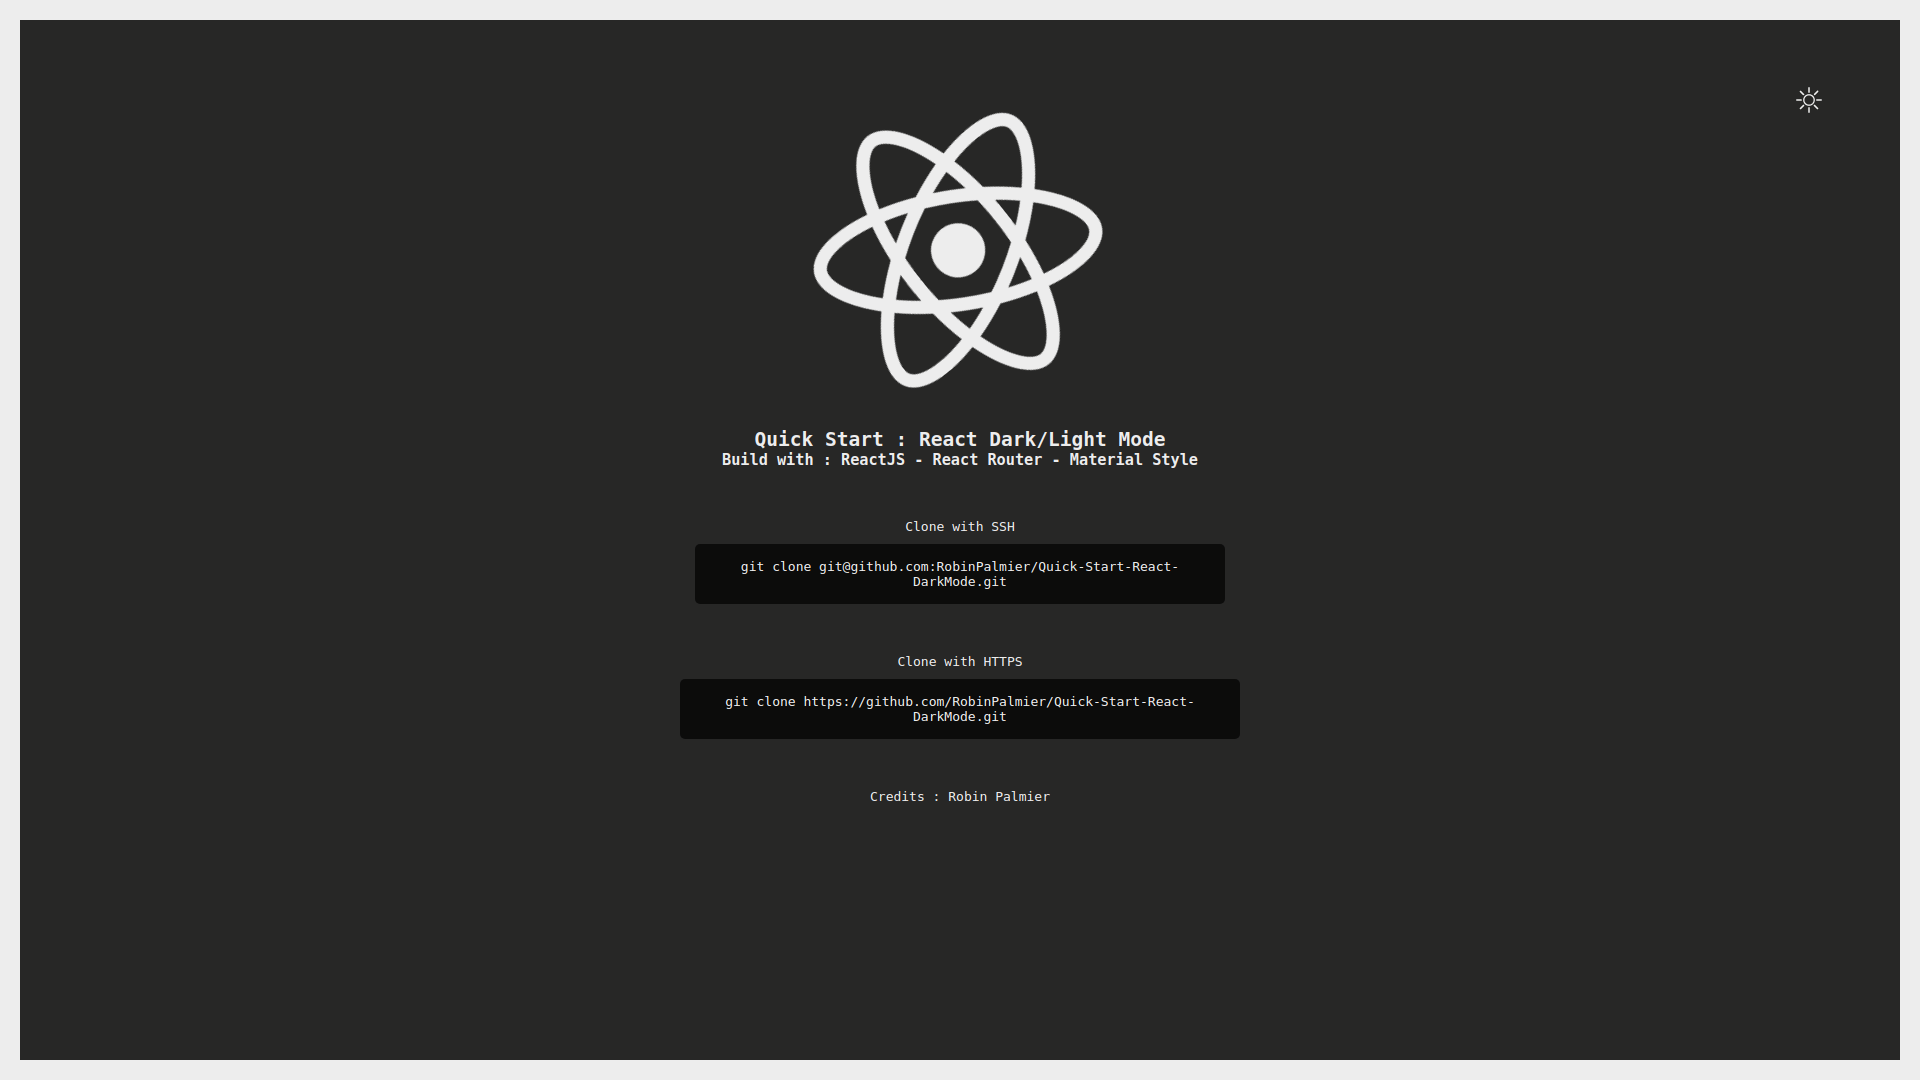
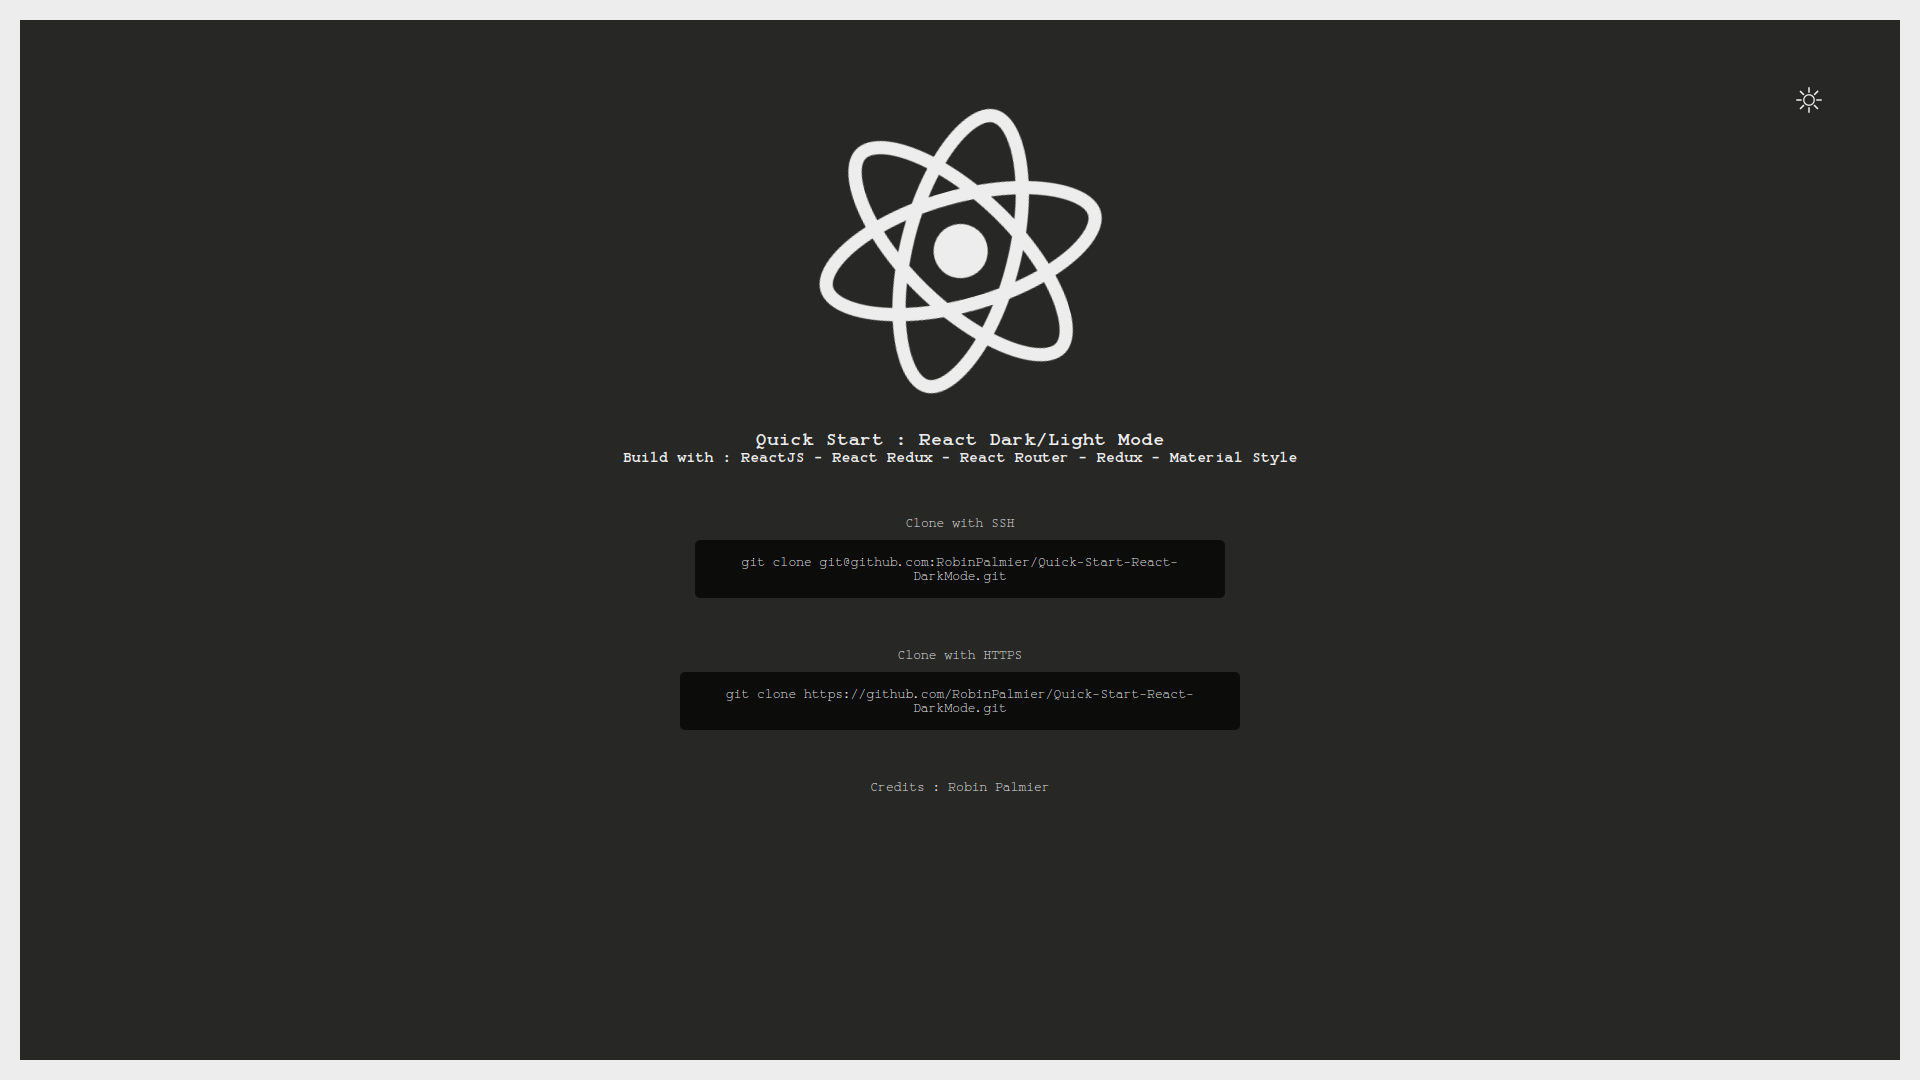
v1.0.0

Changed region(s): [[0.3438, 0.4583, 0.6562, 0.7639], [0.4062, 0.0917, 0.5938, 0.3667], [0.3125, 0.3972, 0.6562, 0.4278]]

diff --git a/src/components/Header/Theme/index.jsx b/src/components/Header/Theme/index.jsx
@@ -1,26 +1,39 @@
-import React, { useContext } from 'react';
-import Context from '../../../store/context';
-import useStyles from './useStyles';
+import React from 'react';
+import { bindActionCreators } from 'redux';
+import { useSelector, useDispatch, connect } from 'react-redux';
+import { defineTheme } from '../../../Redux/actions';
+import actions from '../../../Redux/actionsLabels';
 import Moon from '../../../assets/img/moon.svg';
 import Sun from '../../../assets/img/sun.svg';
+import useStyles from './useStyles';
 
 const ThemeChoice = () => {
-    const { state, dispatch } = useContext(Context);
-    const classes = useStyles();
+    const theme = useSelector(state => state.theme);
+    const classes = useStyles(theme);
+    const dispatch = useDispatch();
 
-    const handleChangeTheme = () => {
-        dispatch({type: "TOGGLE_DARK_MODE"});
-    }
+    const handleChangeTheme = () => dispatch({type: actions.TOGGLE_DARK_MODE});
 
     return (
-            <img 
-                className={classes.iconeThemeChange}
-                src={state.isDark ? Sun : Moon}
-                alt="darkmode-toggle-img"
-                onClick={handleChangeTheme}
-            />
+        <img 
+            className={classes.iconeThemeChange}
+            src={theme.isDark ? Sun : Moon}
+            alt="darkmode-toggle-img"
+            onClick={handleChangeTheme}
+        />
     )
 }
 
+const mapStateTorops = state => ({
+        utheme: state.theme
+})
 
-export default ThemeChoice;
+const mapDispatchToProps = dispatch => ({
+    theme: bindActionCreators(defineTheme, dispatch),
+})
+
+
+export default connect(
+    mapStateTorops,
+    mapDispatchToProps,
+)(ThemeChoice);

diff --git a/src/index.js b/src/index.js
@@ -3,17 +3,21 @@ import ReactDOM from 'react-dom';
 import { Route, Switch, BrowserRouter } from 'react-router-dom';
 import * as serviceWorker from './serviceWorker';
 import App from './App';
-import GlobalStateProvider from './store/GlobalStateProvider';
+import { Provider } from 'react-redux';
+import { createStore, applyMiddleware } from 'redux';
+import reducers from './Redux/reducers';
 import './assets/style/reset.css';
 
+const createStoreWithMiddleware = applyMiddleware()(createStore);
+
 ReactDOM.render((
-        <GlobalStateProvider>
-                <BrowserRouter>
-                    <Switch>
-                        <Route path="/" name="Home" component={App}/>
-                    </Switch>
-                </BrowserRouter>
-        </GlobalStateProvider>
+    <Provider store={createStoreWithMiddleware(reducers,window.__REDUX_DEVTOOLS_EXTENSION__ && window.__REDUX_DEVTOOLS_EXTENSION__())}>
+        <BrowserRouter>
+            <Switch>
+                <Route path="/" name="Home" component={App}/>
+            </Switch>
+        </BrowserRouter>
+    </Provider>
 ),document.getElementById('root'));
 
 // If you want your app to work offline and load faster, you can change

diff --git a/src/components/Home/index.jsx b/src/components/Home/index.jsx
@@ -1,15 +1,15 @@
-import React, { useContext } from 'react';
-import Context from '../../store/context';
+import React from 'react';
+import { useSelector } from 'react-redux';
 import useStyles from './useStyles';
 
 const Home = () =>  {
-    const { state } = useContext(Context);
-    const classes = useStyles(state);
+    const theme = useSelector(state => state.theme);
+    const classes = useStyles(theme);
 
     return (
         <div className={classes.content}>
             <h2>Quick Start : React Dark/Light Mode</h2>
-            <h3>Build with : ReactJS - React Router - Material Style</h3>
+            <h3>Build with : ReactJS - React Redux - React Router - Redux - Material Style</h3>
             <div className={classes.code}>
                 <span className={classes.titleCode}>Clone with SSH</span>
                 <p className={classes.editor}>git clone git@github.com:RobinPalmier/Quick-Start-React-DarkMode.git</p>

diff --git a/src/App.js b/src/App.js
@@ -1,14 +1,14 @@
-import React, { useContext } from 'react';
-import Context from './store/context';
+import React from 'react';
 import { Route, Redirect } from 'react-router-dom';
+import { useSelector } from 'react-redux';
 import { roadMap } from './router';
 import Header from './components/Header';
 import ThemeChoice from './components/Header/Theme';
 import useStyles from './assets/style/baseStyle';
 
 const App = () => {
-  const { state } = useContext(Context);
-  const classes = useStyles(state.isDark);
+  const theme = useSelector(state => state.theme);
+  const classes = useStyles(theme);
 
   return (
       <div className={classes.app}>

diff --git a/src/assets/style/baseStyle.js b/src/assets/style/baseStyle.js
@@ -3,13 +3,13 @@ import palette from './colors';
 
 const useStyles = makeStyles({
     app:{
-        backgroundColor: props => props ? palette.themeLight : palette.themeDark,
+        backgroundColor: props => props.isDark ? palette.themeLight : palette.themeDark,
         padding: 20,
         transition: '0.5s',
     },
     bodyApp:{
         height: '100%',
-        backgroundColor: props => props ? palette.themeDark : palette.themeLight,
+        backgroundColor: props => props.isDark ? palette.themeDark : palette.themeLight,
         minHeight: window.innerHeight - 40,
         transition: '0.5s',
     }

diff --git a/src/components/Header/Logo/index.jsx b/src/components/Header/Logo/index.jsx
@@ -1,12 +1,12 @@
-import React, { useContext } from 'react';
-import { ReactSVG } from 'react-svg'
-import Context from '../../../store/context';
+import React from 'react';
+import { ReactSVG } from 'react-svg';
+import { useSelector } from 'react-redux';
 import logo from '../../../assets/img/logo.svg';
 import useStyles from './useStyles';
 
 const Logo = () => {
-    const { state } = useContext(Context);
-    const classes = useStyles(state);
+    const theme = useSelector(state => state.theme);
+    const classes = useStyles(theme);
 
     return <ReactSVG src={logo} className={classes.logoReactJS} />
 }

diff --git a/src/Redux/reducers/theme.js b/src/Redux/reducers/theme.js
@@ -1,0 +1,16 @@
+import storage from 'local-storage-fallback';
+import actions from '../actionsLabels';
+import palette from '../../assets/style/colors';
+
+export default (state = palette, action) => {
+    switch(action.type) {
+        case actions.TOGGLE_DARK_MODE :
+            storage.setItem('isDark', !state.isDark);
+            return {
+                ...state,
+                isDark: !state.isDark,
+            }
+        default:
+            return state;
+    }
+};

diff --git a/src/assets/style/colors.js b/src/assets/style/colors.js
@@ -1,4 +1,7 @@
+import storage from 'local-storage-fallback';
+
 const palette = {
+    isDark: JSON.parse(storage.getItem('isDark')),
     themeLight: '#EDEDED',
     themeDark: '#272726',
 };

diff --git a/src/Redux/actions/index.js b/src/Redux/actions/index.js
@@ -1,0 +1,8 @@
+import actions from '../actionsLabels';
+
+export const defineTheme = (theme) => {
+    return {
+        type: actions.TOGGLE_DARK_MODE,
+        playload: theme
+    }
+}

diff --git a/src/Redux/reducers/index.js b/src/Redux/reducers/index.js
@@ -1,0 +1,8 @@
+import { combineReducers } from 'redux';
+import useTheme from './theme';
+
+const rootReducer = combineReducers({
+    theme: useTheme,
+});
+
+export default rootReducer;

diff --git a/src/Redux/actionsLabels.js b/src/Redux/actionsLabels.js
@@ -1,0 +1,5 @@
+const actions = {
+    TOGGLE_DARK_MODE: 'TOGGLE_DARK_MODE'
+}
+
+export default actions;

diff --git a/README.md b/README.md
@@ -12,9 +12,13 @@
 ---
 #### Libraries used :
 
-* [React JS](https://reactjs.org/)
+* [ReactJS](https://reactjs.org/)
+
+* [React Redux](https://react-redux.js.org/)
 
 * [React Router](https://github.com/ReactTraining/react-router)
+
+* [Redux](https://redux.js.org/)
 
 * [Material Style](https://material-ui.com/styles/basics/)
 
